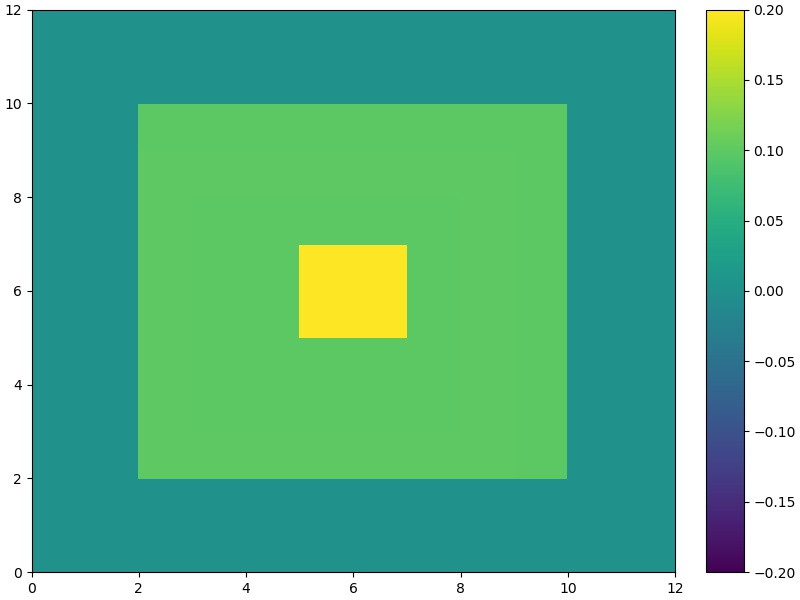
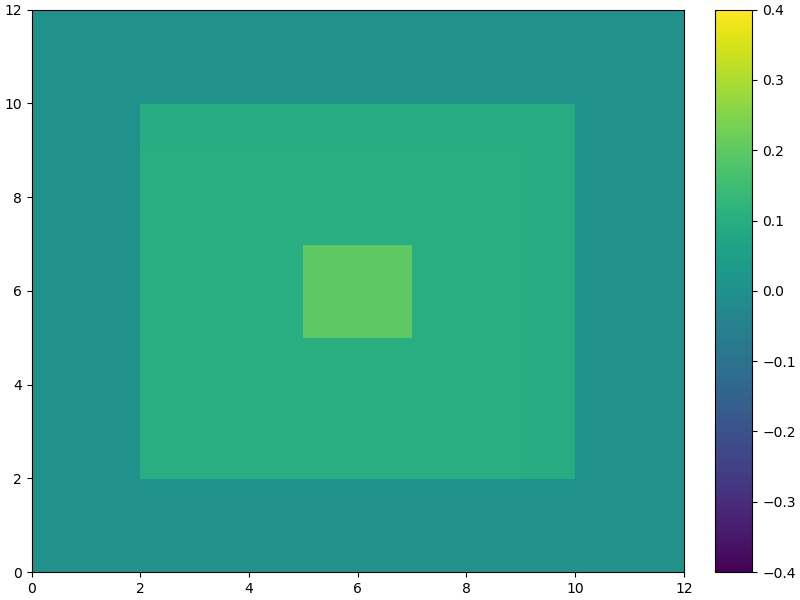
Reset scale for QUICK Grad plots back to [-0.4,0.4]

diff --git a/custom_apps/tf_cuda_gradients.py b/custom_apps/tf_cuda_gradients.py
@@ -74,7 +74,7 @@ class CUDAFlow(App):
 
         # Do the Machine Learning
         self._gradient_descent_quick(density, velocity, dt, dim)
-        #self._gradient_descent_semi_lagrange(density, velocity, dt)
+        self._gradient_descent_semi_lagrange(density, velocity, dt)
 
         # This is ugly but I but since this is siumlation code it's not too bad
         density_tensor = tf.constant(density.data)
@@ -158,7 +158,7 @@ class CUDAFlow(App):
         sess.run(tf.global_variables_initializer())
         sess.run(train)
         result = sess.run((density_tensor_padded, velocity_u_tensor_padded, velocity_v_tensor_padded, y))
-        plot_grid(result[0][0], "tf_cuda_grad/quick/tf_cuda_grad_rho.jpg", -0.2, 0.2)
+        plot_grid(result[0][0], "tf_cuda_grad/quick/tf_cuda_grad_rho.jpg", -0.4, 0.4)
         plot_grid(result[1][0], "tf_cuda_grad/quick/tf_cuda_grad_u.jpg", -0.4, 0.4)
         plot_grid(result[2][0], "tf_cuda_grad/quick/tf_cuda_grad_v.jpg", -0.4, 0.4)
         plot_grid(result[3][0], "tf_cuda_grad/quick/tf_cuda_grad_diff.jpg", -0.4, 0.4)
